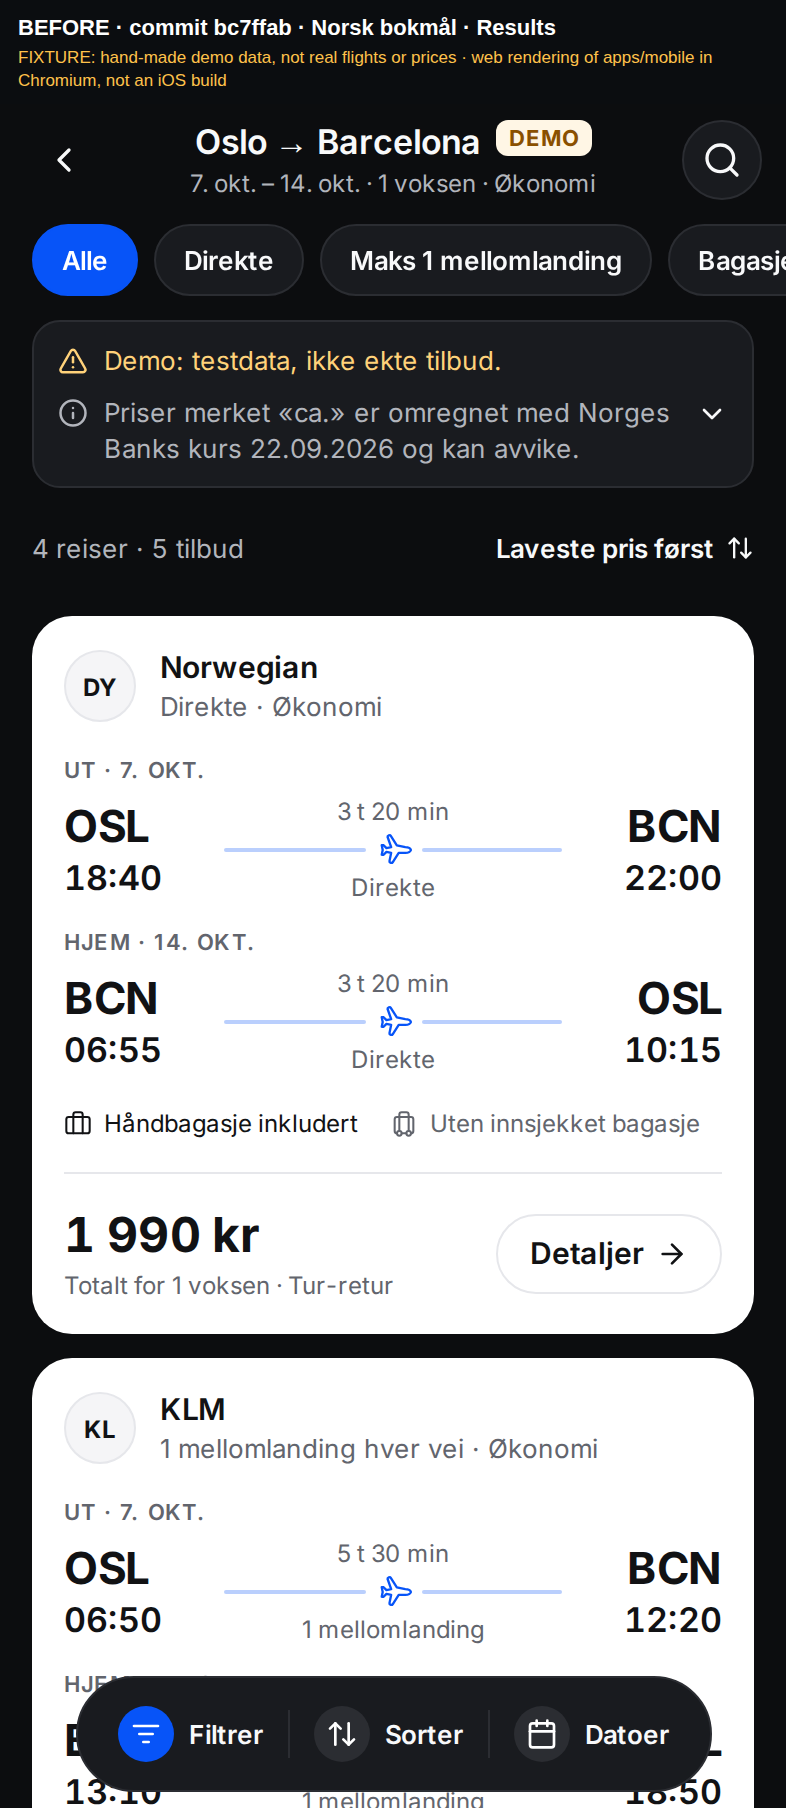
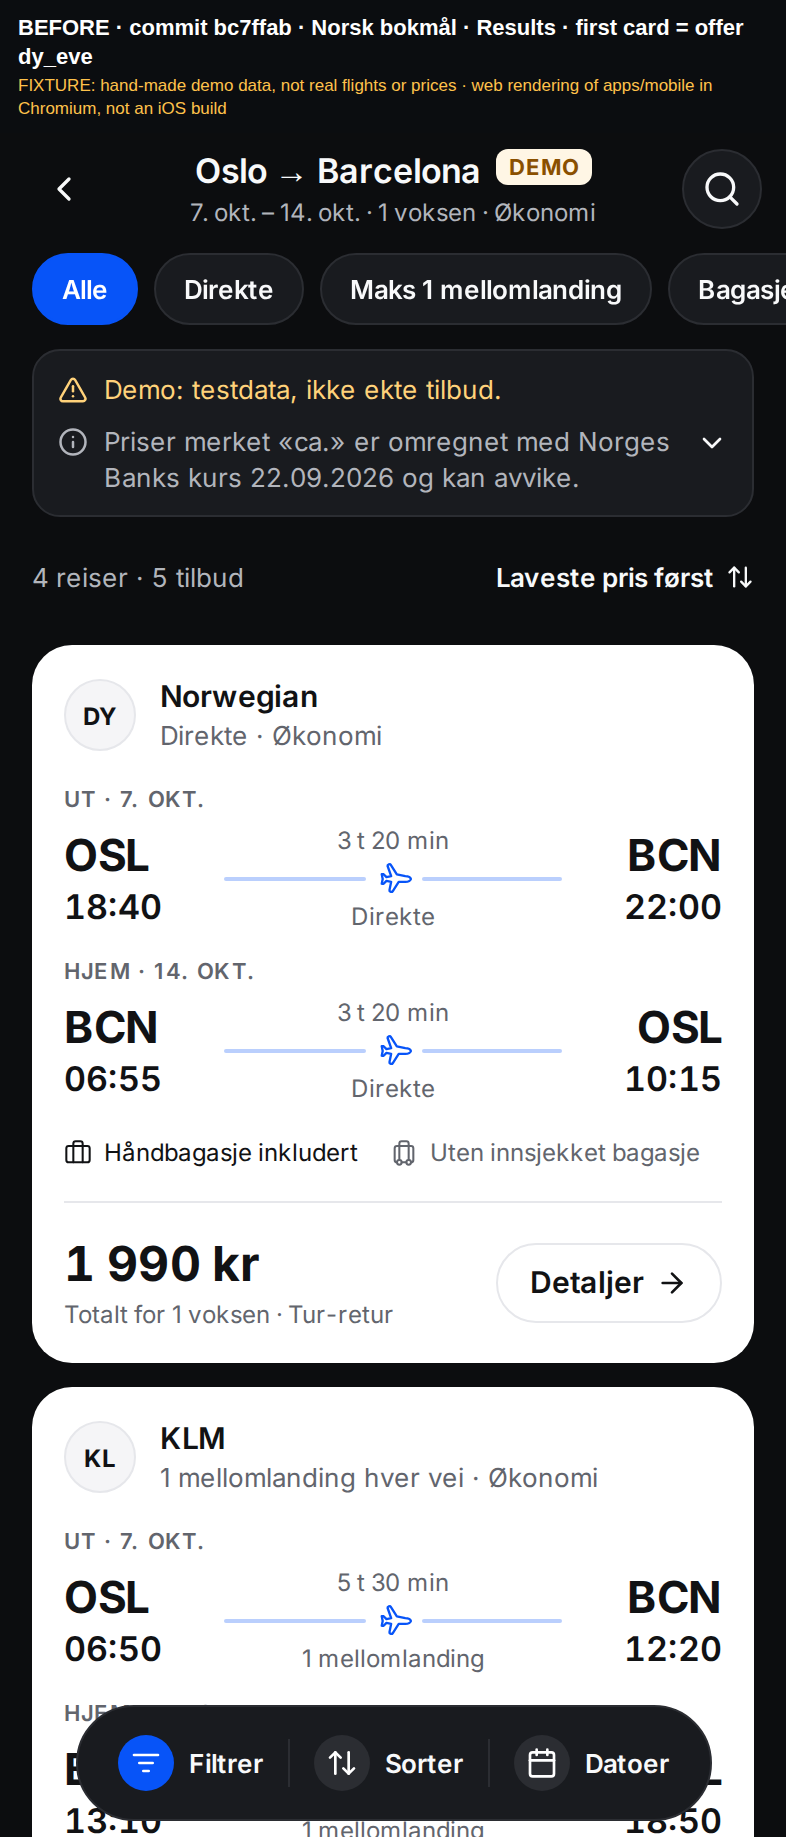
iOS app evidence: one traceable first-card → details flow, re-captured at 79c2730
Codex found that the details screenshots did not show the first result
card. The capture script opened a hard-coded offer (gtg_dy, Gotogate,
10:25, NOK 2,390), while the first card was dy_eve (18:40, NOK 1,990). The
manifest also called it "first seller". The app was right; the evidence
was not.

- The capture now clicks the first card and records its offer id. It
  checks that the route is /tilbud/<id> and that the details show every
  time on the card and the same price, and fails the capture otherwise.
  For bc7ffab (nb) and 79c2730 (en, nb) it is dy_eve: 18:40, 22:00, 06:55,
  10:15, and NOK 1,990 / 1 990 kr.
- "After" is re-captured at 79c2730 (includes the filters and the
  hellosky.no hand-off). Captions name the offer id. MANIFEST.md lists the
  flow facts, the correction and new SHA-256 prefixes.
- App test: pressing the first card pushes /tilbud/[id] with that card's
  offer id.

Claude-Session: https://claude.ai/code/session_01TegeEr6f4CShJWuL7MGYUr

diff --git a/apps/mobile/src/__tests__/filters.test.tsx b/apps/mobile/src/__tests__/filters.test.tsx
@@ -173,3 +173,13 @@ describe("endre søket", () => {
     expect(router.back).not.toHaveBeenCalled();
   });
 });
+
+describe("fra kort til detaljer", () => {
+  it("første kort åpner detaljene for akkurat det tilbudet (kortets billigste tilbyder)", async () => {
+    const router = (globalThis as unknown as { __router: { push: jest.Mock } }).__router;
+    await renderResults(SEARCH_RESULT);
+    const firstId = cardIds()[0]!.replace(/^offer-/, "");
+    await fireEvent.press(screen.getAllByTestId(/^offer-/)[0]!);
+    expect(router.push).toHaveBeenLastCalledWith({ pathname: "/tilbud/[id]", params: { id: firstId } });
+  });
+});

diff --git a/apps/mobile/docs/evidence/MANIFEST.md b/apps/mobile/docs/evidence/MANIFEST.md
@@ -7,10 +7,30 @@ fed with hand-made demo data. The caption bar on each image says so.
 | | Commit | Languages |
 |---|---|---|
 | Before | `bc7ffab` (black/white/blue design) | Norwegian only; the app had no English then |
-| After | `5230535` | English (the default) and Norwegian (a saved choice in Profile) |
+| After | `79c2730` | English (the default) and Norwegian (a saved choice in Profile) |
 
-Screens: 1 home, 2 results (Oslo → Barcelona), 3 flight details (Norwegian
-DY1872, first seller), 4 profile, signed out.
+Screens: 1 home, 2 results (Oslo → Barcelona), 3 the details of the first
+result card, 4 profile, signed out.
+
+**One traceable flow.** In every set, screen 3 is the first card on
+screen 2: offer `dy_eve`, Norwegian DY1878/DY1879, OSL 18:40 → BCN 22:00,
+back BCN 06:55 → OSL 10:15, total NOK 1,990 (1 adult, return). The
+capture script clicks the first card, not a chosen offer. It then checks
+that the route is `/tilbud/dy_eve` and that the details screen shows all
+four times and the same price, and it fails the capture if anything
+differs. The recorded facts per language (`flow.json` in the capture run):
+
+| Set | Language | First card | Times on card = details | Price on card = details |
+|---|---|---|---|---|
+| before `bc7ffab` | nb | `dy_eve` | 18:40, 22:00, 06:55, 10:15 | 1 990 kr |
+| after `79c2730` | en | `dy_eve` | 18:40, 22:00, 06:55, 10:15 | NOK 1,990 |
+| after `79c2730` | nb | `dy_eve` | 18:40, 22:00, 06:55, 10:15 | 1 990 kr |
+
+**Correction.** The first version of this set (after = `5230535`)
+opened a hard-coded offer (`gtg_dy`, Gotogate, 10:25, NOK 2,390) for
+screen 3, not the first card, and wrongly called it the first seller.
+Codex spotted it. Those images are replaced, and the app's own selection
+was right: the card opens the details of its cheapest seller.
 
 ## How they were made
 
@@ -37,7 +57,7 @@ only labels in test data. They are not offers from those companies.
 No account is signed in. The images contain no personal data, tokens or
 server addresses.
 
-## What changed (bc7ffab → 5230535)
+## What changed (bc7ffab → 79c2730)
 
 - **Language:** English by default, Norwegian as a choice in Profile that
   is saved on the phone. Prices stay in NOK in both languages.
@@ -52,6 +72,11 @@ server addresses.
   Warnings for airport changes, overnight arrivals and long layovers show
   before you continue to the provider (not triggered by this fixture).
 - **Profile:** a language switch.
+- **Results:** filters for airline, total price, longest flight time and
+  return departure (`a7b7537`).
+- **Details:** tickets HelloSky sells itself now say "Continue on
+  hellosky.no" instead of showing a disabled button. Shares carry the same
+  search as a hellosky.no link (`d8c3e68`).
 
 Not in these images yet: the account screens (edit profile, forgot
 password, delete account, help and legal links). They wait on the backend
@@ -63,17 +88,17 @@ They will be added as a new "after" set once pushed.
 | File | SHA-256 (prefix) |
 |---|---|
 | `before-bc7ffab-nb-1-home.png` | `355d958de04d2eab…` |
-| `before-bc7ffab-nb-2-results.png` | `dc6b01f687da7381…` |
-| `before-bc7ffab-nb-3-details.png` | `0d48432444a636c3…` |
+| `before-bc7ffab-nb-2-results.png` | `f10a622fe64250c3…` |
+| `before-bc7ffab-nb-3-details.png` | `fe1735d9a14f0d8c…` |
 | `before-bc7ffab-nb-4-profile.png` | `8c6d8b9efc410e6c…` |
-| `after-5230535-en-1-home.png` | `e7e31436e49d5878…` |
-| `after-5230535-en-2-results.png` | `1abe60860208357e…` |
-| `after-5230535-en-3-details.png` | `fdb9ac43e16b6161…` |
-| `after-5230535-en-4-profile.png` | `ad4eacf9516f8677…` |
-| `after-5230535-nb-1-home.png` | `7a415b4239019b8c…` |
-| `after-5230535-nb-2-results.png` | `fcf5c04fc493b66e…` |
-| `after-5230535-nb-3-details.png` | `9222f85498d0ee27…` |
-| `after-5230535-nb-4-profile.png` | `3a034a0653959ae7…` |
+| `after-79c2730-en-1-home.png` | `c19ee0cc504384c7…` |
+| `after-79c2730-en-2-results.png` | `2e0bd89f4f1c9806…` |
+| `after-79c2730-en-3-details.png` | `dd0a3eaef1962cdc…` |
+| `after-79c2730-en-4-profile.png` | `38734ea06f167897…` |
+| `after-79c2730-nb-1-home.png` | `c1389ba2f295ca25…` |
+| `after-79c2730-nb-2-results.png` | `e32cda8e088c201a…` |
+| `after-79c2730-nb-3-details.png` | `3003783be74f96a0…` |
+| `after-79c2730-nb-4-profile.png` | `0ac3adba1530cddf…` |
 
 Each image is 786×1809 px: a 2× capture of a 393×852 viewport plus the
 caption bar.
